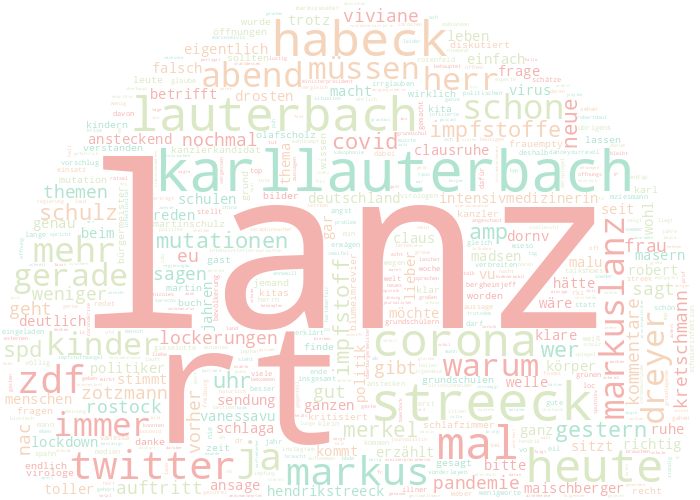
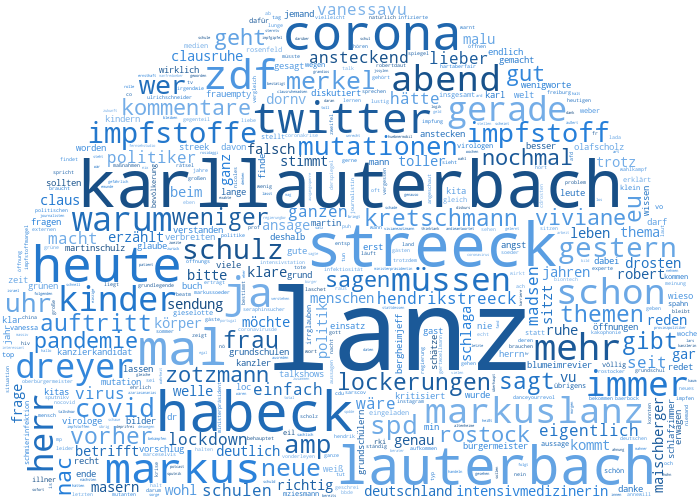
changed wordcloud color

diff --git a/src/build_wordcloud.py b/src/build_wordcloud.py
@@ -12,8 +12,8 @@ def similar_color_func(word=None, font_size=None,
                        position=None, orientation=None,
                        font_path=None, random_state=None):
 
-    h = 40  # 0 - 360
-    s = 100  # 0 - 100
+    h = 210  # 0 - 360 / 200
+    s = 70  # 0 - 100  / 50 / 70
     random = random_state.randint(30, 70)  # 0 - 100
     return "hsl({}, {}%, {}%)".format(h, s, random)
 
@@ -66,8 +66,8 @@ def create_and_save_wordcloud_to_storage(trend_name, data):
 
         # build wordcloud
         wordcloud = WordCloud(
-            background_color=None, mode='RGBA', max_words=2000, random_state=42, width=1000, height=1000,
-            color_func=multi_color_func, mask=make_circle(), min_word_length=2).generate_from_frequencies(data)
+            background_color=None, mode='RGBA', max_words=500, random_state=42, width=1000, height=1000,
+            color_func=similar_color_func, mask=make_circle(), min_word_length=2).generate_from_frequencies(data)
         plt.imshow(wordcloud, interpolation="bilinear")
         wordcloud.to_file(path)
 
@@ -108,5 +108,15 @@ def create_and_save_wordcloud_to_storage_lda(trend_name, topic_words, current_di
 
 if __name__ == "__main__":
 
-    ...
+    # get all trend filenames from storage
+    current_dir = os.path.dirname(os.path.abspath(__file__))
+    trends = [trend for trend in os.listdir(current_dir + '/../storage/jsons')]
+    trends = ["#Lanz.json"]
+
+    for trend in trends:
+        print(trend)
+        data = clean_tweets(trend)
+        create_and_save_wordcloud_to_storage(trend, data)
+
+
     print("\nYou are doing great! :)")  # Motivational Message
